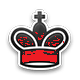
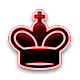
.
highlight if in check

diff --git a/QtBoard.py b/QtBoard.py
@@ -5,171 +5,13 @@ import os
 from PyQt5.QtCore import (QByteArray, QDataStream, QIODevice, QMimeData,
 		QPoint, Qt, QObject, QPointF, QPropertyAnimation, pyqtProperty,
 		QParallelAnimationGroup, QSequentialAnimationGroup)
-from PyQt5.QtGui import QColor, QDrag, QPainter, QPixmap, QPainterPath
+from PyQt5.QtGui import QColor, QDrag, QPainter, QPixmap, QPainterPath, QMovie
 from PyQt5.QtWidgets import (QMainWindow, QApplication, QInputDialog , QFrame, QHBoxLayout,
 	QVBoxLayout, QLabel, QLineEdit, QMessageBox, QPushButton, QWidget)
 
 from game import *
 from players import *
 from QtCell import *
-
-
-class QtBoard_OLD_VERSION(QWidget):
-	def __init__(self, game, parent=None):
-		super(QtBoard, self).__init__(parent)
-		self.game = game
-		self.comp = Computer(game)
-
-		verticalLayout = QVBoxLayout()
-		# verticalLayout.addStretch()
-		for y in '87654321':
-			horizontalLayout = QHBoxLayout()
-			# horizontalLayout.addStretch()
-			for x in 'abcdefgh':
-				horizontalLayout.addWidget(QtCell(x+y, self.game, self))
-				verticalLayout.addLayout(horizontalLayout)
-		self.setLayout(verticalLayout)
-		self.setAcceptDrops(True)
-
-		self.setToolTip('board')
-		# self.setGeometry(200, 200, 500, 500)
-
-		self.moved_piece = None
-		# для custeling:
-		self.moved_king = None
-		self.moved_rook = None
-		self.put_pieces()
-
-	def put_pieces(self):
-		# ставит фигуры в соответствие со своей логической доской
-		for row in self.layout().children():
-			for cell in [row.itemAt(i).widget() for i in range(8)]:
-				logic_piece = self.game.board[cell.id]
-				if logic_piece:
-					cell.set_piece(type(logic_piece).__name__, logic_piece.color)
-				else:
-					cell.del_piece()
-
-
-	def make_human_move(self, from_pos, to_pos):
-		self.game.make_move(from_pos, to_pos)
-
-		from_cell = self.get_cell(from_pos)
-		to_cell = self.get_cell(to_pos)
-
-		if self.is_custeling(from_pos, to_pos):
-			self.animate_custeling(from_pos, to_pos)
-			from_cell.del_piece()
-			to_cell.del_piece()
-
-		else:
-			to_cell.set_piece(from_cell.piece.name, from_cell.piece.color)
-			from_cell.del_piece()
-			self.update()
-
-		# self.update()
-		self.make_computer_move()
-
-	def make_computer_move(self):
-		from_pos, to_pos = self.comp.get_move()
-		self.game.make_move(from_pos, to_pos)
-		self.animate_move(from_pos, to_pos)
-
-		from_cell = self.get_cell(from_pos)
-		from_cell.del_piece()
-
-	def animate_move(self, from_pos, to_pos):
-		from_pos_coords = self.get_coords(from_pos)
-		to_pos_coords = self.get_coords(to_pos)
-
-		from_cell = self.get_cell(from_pos)
-
-		# необходимо чтобы скрывать его в mouse_press
-		# иначе при наведении нельзя поставить фигуру на нее
-		self.moved_piece = QtPiece(from_cell.piece.name, from_cell.piece.color, self)
-		self.moved_piece.to_cell = self.get_cell(to_pos)
-
-		self.anim = QPropertyAnimation(self.moved_piece, b'pos')
-		self.anim.setDuration(1000) # speed
-
-		self.anim.setStartValue(from_pos_coords)
-		self.anim.setEndValue(to_pos_coords)
-		self.anim.start()
-		self.anim.finished.connect(self.update)
-
-	def is_custeling(self, from_pos, to_pos):
-		# проверяет только позиции
-		return from_pos == 'e1' and to_pos in ['a1', 'h1']
-
-	def animate_custeling(self, from_pos, to_pos):
-		if not self.is_custeling(from_pos, to_pos):
-			raise Exception()
-		# _1 так как рокировка только у человека
-		rook_future_place = 'f1' if to_pos == 'h1' else 'd1'
-		king_future_place = 'g1' if to_pos == 'h1' else 'c1'
-
-		self.moved_king = QtPiece('King', 'white', self)
-		self.moved_king.to_cell = self.get_cell(king_future_place)
-		self.moved_rook = QtPiece('Rook', 'white', self)
-		self.moved_rook.to_cell = self.get_cell(rook_future_place)
-
-		self.king_anim = QPropertyAnimation(self.moved_king, b'pos')
-		self.king_anim.setDuration(1000) # speed
-		self.king_anim.setStartValue(self.get_coords('e1'))
-		self.king_anim.setEndValue(self.get_coords(king_future_place))
-		self.king_anim.start()
-
-		self.rook_anim = QPropertyAnimation(self.moved_rook, b'pos')
-		self.rook_anim.setDuration(1000)  # speed
-		self.rook_anim.setStartValue(self.get_coords(to_pos))
-		self.rook_anim.setEndValue(self.get_coords(rook_future_place))
-		self.rook_anim.start()
-
-	def get_cell(self, id):
-		for row in self.layout().children():
-			for cell in [row.itemAt(i).widget() for i in range(8)]:
-				if cell.id == id:
-					return cell
-
-	def get_coords(self, cell_id):
-		# возвращает координаты центра конкретной клетки относительно доски в пикселях
-		return self.get_cell(cell_id).pos()
-
-	def update(self):
-		if self.game.over:
-			self.message_over()
-			return
-
-		if self.moved_piece:
-			self.moved_piece.hide()
-			self.moved_piece = None
-		if self.moved_king:
-			self.moved_king.hide()
-			self.moved_king = None
-		if self.moved_rook:
-			self.moved_rook.hide()
-			self.moved_rook = None
-
-		self.put_pieces()
-
-	def message_over(self):
-		pers_message = 'You won!' if self.game.winner == 'Human' else 'You lost!'
-		buttonReply = QMessageBox.information(self, '', 'Game over\n'+pers_message, QMessageBox.Ok)
-		if buttonReply == QMessageBox.Ok:
-			self.parent().close()
-
-	def mousePressEvent0(self, event):
-		# self.game.print_board()
-		# self.update()
-		pass
-
-
-	def load_session(self, ses_name='init'):
-		self.game.load_session(ses_name)
-		self.update()
-
-	def save_session(self, ses_name):
-		self.game.save_session(ses_name)
 
 class QtBoard(QWidget):
 	def __init__(self, game, parent=None):
@@ -220,6 +62,7 @@ class QtBoard(QWidget):
 			return
 		self.update_radioactive()
 		# self.update_incheck_highlits()
+		self.highlight_if_incheck()
 
 	def make_human_move000(self, from_pos, to_pos):
 		self.game.make_move(from_pos, to_pos)
@@ -346,4 +189,29 @@ class QtBoard(QWidget):
 						else:
 							cell.highlight_incheck(False)
 
+	def highlight_piece(self, from_pos):
+		piece = self.get_cell(from_pos).piece
+		if not piece:
+			return
+		piece.setPixmap(QPixmap('pieces_img/{}_King_incheck.png'.format(piece.color[0])).scaled(50, 50))
+		# piece.setPixmap(QPixmap('pieces_img/r_King.png').scaled(50, 50))
+		# piece.setPixmap(piece.origin_pixmap)
+
+	def blink_piece00(self, from_pos):
+		# cell = self.get_cell(from_pos)
+		# blinked_piece = QtPiece('King', 'red', cell)
+		# blinked_piece.hide()
+		piece = self.get_cell(from_pos).piece
+		movie = QMovie("pieces_img/r_King.gif")
+		# movie = QMovie("pieces_img/with_menu.gif")
+		movie.setScaledSize(piece.size())
+
+		piece.setMovie(movie)
+		movie.start()
+
+	def highlight_if_incheck(self):
+		incheck_king_poses = self.game.get_incheck_king_positions()
+			# highlite king !!
+		for pos in incheck_king_poses:
+			self.highlight_piece(pos)
 

diff --git a/start_gui.py b/start_gui.py
@@ -75,8 +75,8 @@ class QtGameWithComputer(QtChess):
 		pseudo_g = self.game.get_pseudo_game()
 		pseudo_g.make_move(from_pos, to_pos)
 		if pseudo_g.is_in_check(self.human.color):
-			# highlite king !!
 			return
+
 		if self.game.is_custeling(from_pos, to_pos):
 			self.game.make_move(from_pos, to_pos)
 			self.board.animate_custeling(from_pos, to_pos)
@@ -86,7 +86,6 @@ class QtGameWithComputer(QtChess):
 
 		# time.sleep(3)
 		self.acting_player = self.comp
-		self.game_app.update_incheck_highlight()
 		self.game_app.update_incheck_msg()
 		# self.make_comp_move()
 
@@ -109,7 +108,7 @@ class QtGameWithComputer(QtChess):
 		self.game.make_move(from_pos, to_pos)
 
 		self.acting_player = self.human
-		self.game_app.update_incheck_highlight()
+		self.game_app.update_incheck_msg()
 
 	def try_make_comp_move(self):
 		if self.acting_player == self.comp:
@@ -183,7 +182,7 @@ class QtGameHotSeat(QtChess):
 		# if self.game.over:
 		# 	self.message_over()
 		self.acting_player = self.human_w if self.acting_player == self.human_b else self.human_b
-		self.game_app.update_incheck_highlight()
+		self.game_app.update_incheck_msg()
 
 	def message_over(self):
 		pers_message = 'Player with {} pieces has won!'.format(self.game.win_color)
@@ -264,13 +263,14 @@ class QtGame(QWidget):
 		msg2 = 'black King is in check' if self.chess.game.is_in_check('black') else ''
 		self.in_check_msg.setText(msg1+'\n\n'+msg2)
 
+
 	def update_incheck_highlightsPIXMAP(self):
 		pos = self.chess.game.get_incheck_king_positions()
 		for p in pos:
 			piece = self.chess.board.get_cell(p).piece
 			piece.setPixmap(piece.incheck_pixmap)
 
-	def update_incheck_highlight(self):
+	def update_incheck_highlight000(self):
 		pos = self.chess.game.get_incheck_king_positions()
 		for p in pos:
 			piece = self.chess.board.get_cell(p).highlight(True, 'incheck')

diff --git a/game.py b/game.py
@@ -276,6 +276,23 @@ class LogicGame:
 			return True
 		return False
 
+	def get_incheck_king_pos(self, king_color):
+		king_pos = None # на случай если вызывается, когда короля нет на поле 
+		for pos in self.board:
+			if self.board[pos] and self.board[pos].color == king_color \
+			and (isinstance(self.board[pos], King) or isinstance(self.board[pos], Maharajah)):
+				king_pos = pos
+				break
+		enemy_color = 'white' if (king_color == 'black') else 'black'
+		moves = self.get_sorted_movements(enemy_color, avoid_mate=False)
+		if not king_pos or not moves:
+			return
+		if moves[0][1] == king_pos:
+			# print(moves[0])
+			# print('ISINCHEEK '+king_color)
+			return king_pos
+
+
 	def get_incheck_king_positions(self):
 		king_poses = []
 		for pos in self.board:

diff --git a/players.py b/players.py
@@ -18,7 +18,7 @@ class Computer:
 		self.color = color
 		print(self.color)
 
-	def get_moveMBFASTER(self):
+	def get_move_MBFASTER(self):
 		moves = self.game.get_sorted_movements(self.color, avoid_mate=False)
 		if not moves:
 			return

diff --git a/QtCell.py b/QtCell.py
@@ -131,6 +131,7 @@ class QtPiece(QLabel):
 		self.name = name
 		self.color = color
 		self.cell = parent
+		self.origin_pixmap = pixmap
 		self.show()
 		self.setMouseTracking(True)
 
